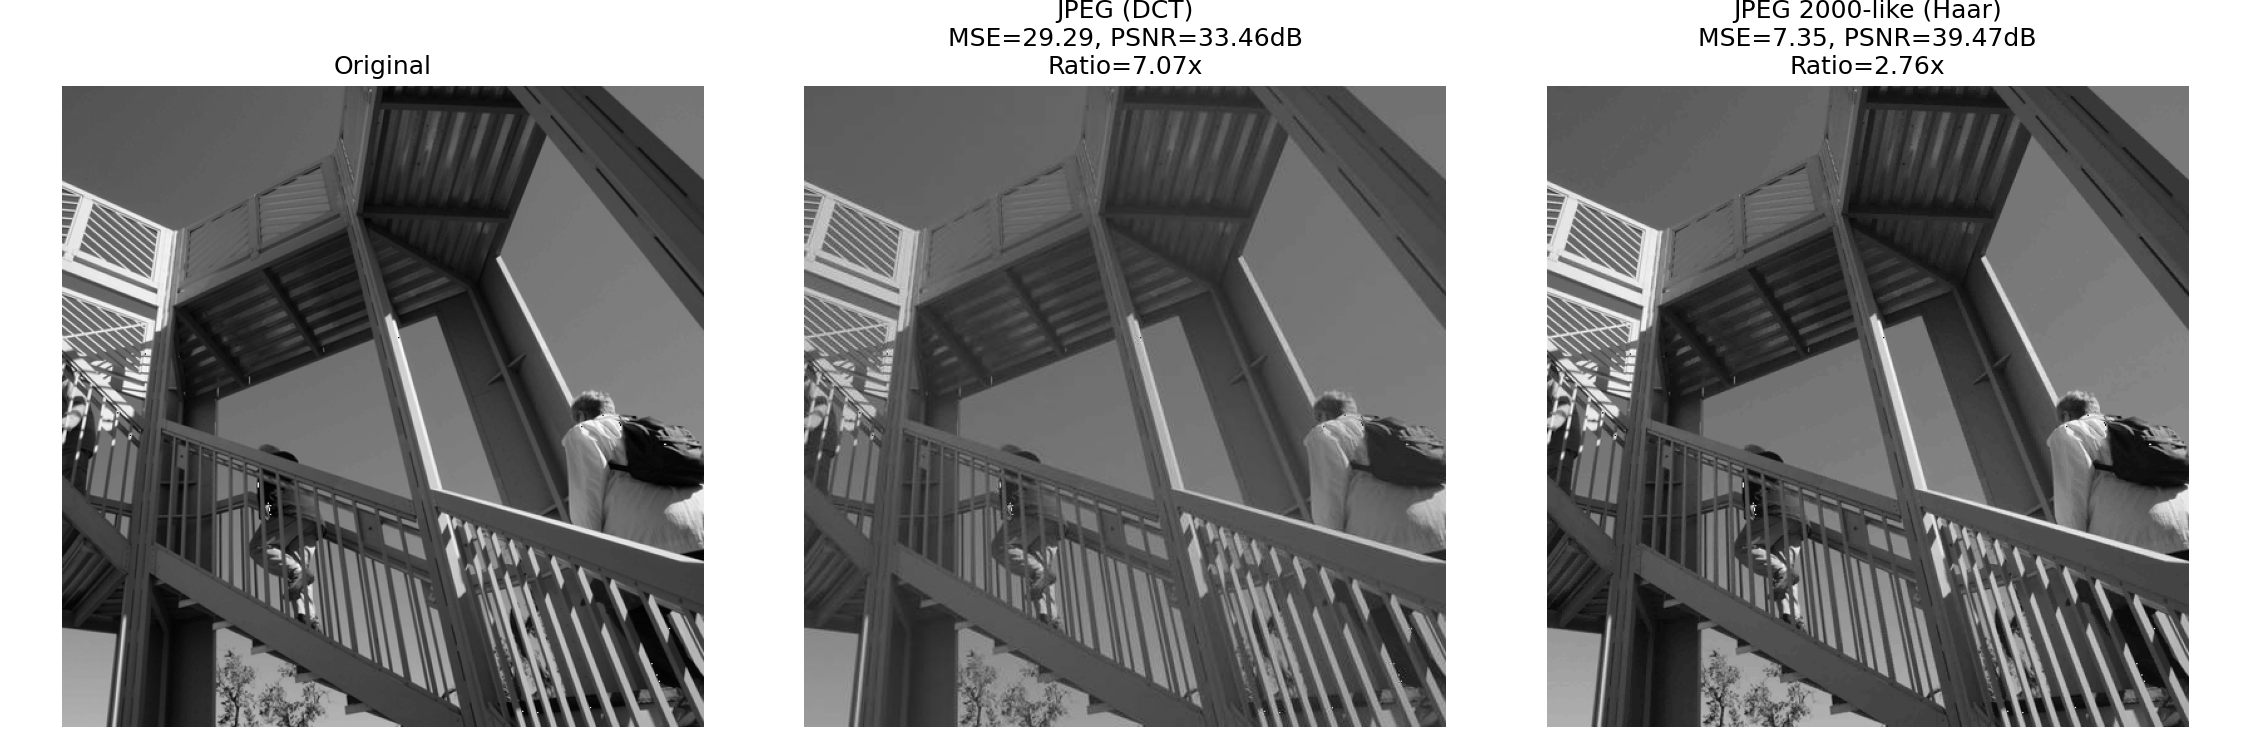
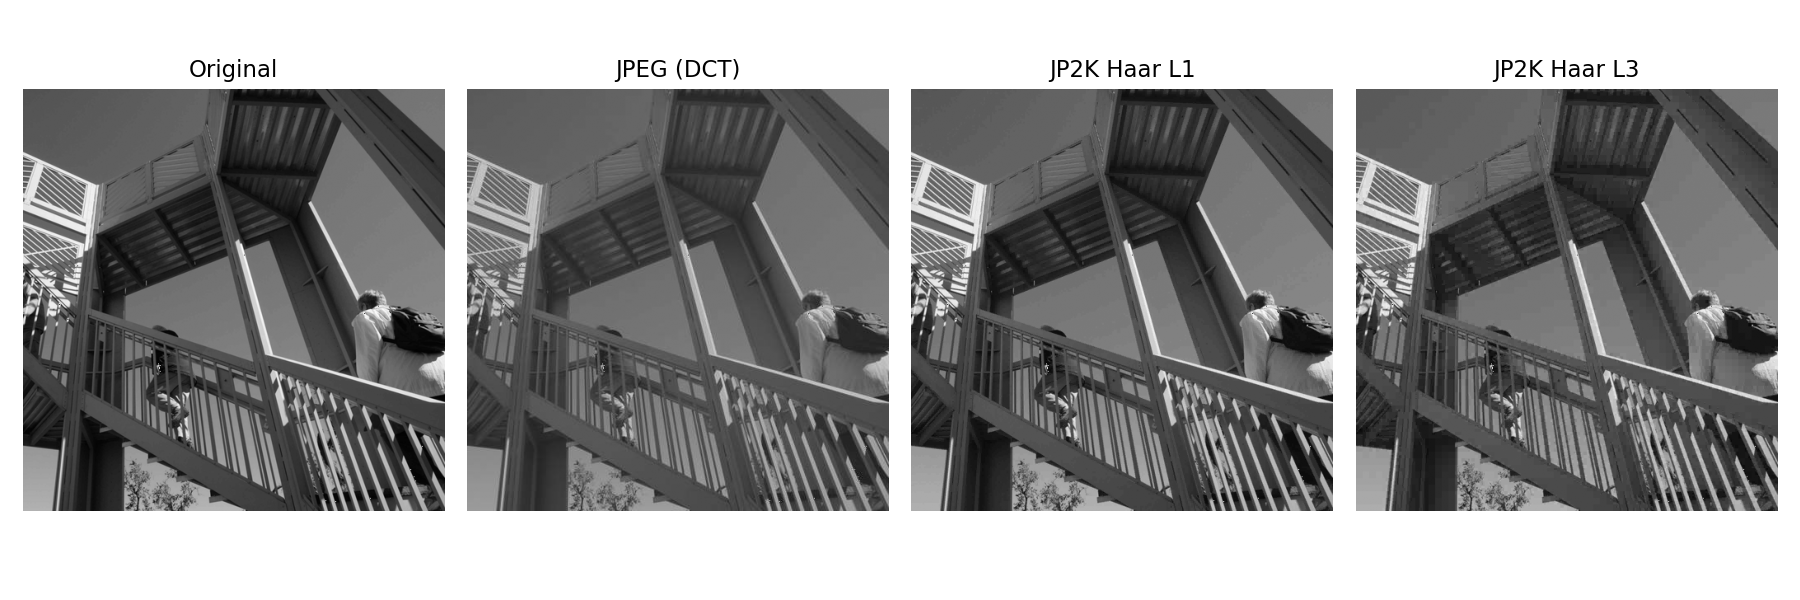
jpeg 2000 enhanced

diff --git a/tema_JPEG/JPEG_encoder/jpeg2000.py b/tema_JPEG/JPEG_encoder/jpeg2000.py
@@ -75,6 +75,56 @@ def inverse_haar_2d(LL, LH, HL, HH):
     return image
 
 
+def multilevel_haar_2d(image, levels=1):
+    """Recursive multi-level 2D Haar transform on the LL band.
+
+    Parameters
+    ----------
+    image : 2D array
+        Input grayscale image.
+    levels : int
+        Number of decomposition levels. For JPEG2000-style pyramids
+        a typical value is 3.
+
+    Returns
+    -------
+    LL : 2D array
+        Coarsest approximation after `levels` decompositions.
+    details : list of (LH, HL, HH)
+        Detail subbands for each level, from first (finest) to last
+        (coarsest) decomposition.
+    """
+
+    img = image.astype(np.float64)
+    LL = img
+    details = []
+
+    for _ in range(levels):
+        LL, LH, HL, HH = haar_2d(LL)
+        details.append((LH, HL, HH))
+
+    return LL, details
+
+
+def inverse_multilevel_haar_2d(LL, details):
+    """Inverse of multilevel_haar_2d.
+
+    Parameters
+    ----------
+    LL : 2D array
+        Coarsest LL band.
+    details : list of (LH, HL, HH)
+        Detail subbands for each level, in the same order as returned
+        by multilevel_haar_2d (from finest to coarsest).
+    """
+
+    current = LL
+    # Reconstruct from coarsest to finest
+    for LH, HL, HH in reversed(details):
+        current = inverse_haar_2d(current, LH, HL, HH)
+    return current
+
+
 def quantize_subbands(LL, LH, HL, HH, step_LL=4.0, step_H=8.0):
     """Uniform scalar quantization for each subband.
 
@@ -150,4 +200,71 @@ def jpeg2000_like_compress_grayscale(image, step_LL=4.0, step_H=8.0):
         "total_coeffs": total_coeffs,
         "step_LL": step_LL,
         "step_H": step_H,
+    }
+
+
+def jpeg2000_like_compress_grayscale_multilevel(image, step_LL=4.0, step_H=8.0, levels=3):
+    """JPEG 2000-like compression with a multi-level LL pyramid.
+
+    This uses multilevel_haar_2d to recursively decompose the LL band
+    `levels` times, mimicking the resolution pyramid of real JPEG 2000.
+    """
+
+    img = image.astype(np.float64)
+    h, w = img.shape
+
+    # Ensure dimensions are multiples of 2**levels
+    scale = 2 ** levels
+    h_pad = (scale - h % scale) % scale
+    w_pad = (scale - w % scale) % scale
+    if h_pad or w_pad:
+        img = np.pad(img, ((0, h_pad), (0, w_pad)), mode="edge")
+
+    # Forward multi-level transform
+    LL, details = multilevel_haar_2d(img, levels=levels)
+
+    # Quantize: LL with step_LL, all detail subbands with step_H
+    q_LL = np.round(LL / step_LL)
+    q_details = []
+    for LH, HL, HH in details:
+        q_LH = np.round(LH / step_H)
+        q_HL = np.round(HL / step_H)
+        q_HH = np.round(HH / step_H)
+        q_details.append((q_LH, q_HL, q_HH))
+
+    # Bit-cost proxy
+    nonzero_coeffs = np.count_nonzero(q_LL)
+    total_coeffs = q_LL.size
+    for q_LH, q_HL, q_HH in q_details:
+        nonzero_coeffs += (
+            np.count_nonzero(q_LH)
+            + np.count_nonzero(q_HL)
+            + np.count_nonzero(q_HH)
+        )
+        total_coeffs += q_LH.size + q_HL.size + q_HH.size
+
+    compression_ratio = total_coeffs / max(nonzero_coeffs, 1)
+
+    # Dequantize and inverse transform
+    LL_d = q_LL * step_LL
+    details_d = []
+    for q_LH, q_HL, q_HH in q_details:
+        LH_d = q_LH * step_H
+        HL_d = q_HL * step_H
+        HH_d = q_HH * step_H
+        details_d.append((LH_d, HL_d, HH_d))
+
+    recon = inverse_multilevel_haar_2d(LL_d, details_d)
+
+    # Remove padding
+    recon = recon[:h, :w]
+
+    mse = np.mean((image.astype(np.float64) - recon) ** 2)
+
+    return recon, mse, compression_ratio, {
+        "nonzero_coeffs": nonzero_coeffs,
+        "total_coeffs": total_coeffs,
+        "step_LL": step_LL,
+        "step_H": step_H,
+        "levels": levels,
     }

diff --git a/tema_JPEG/JPEG_encoder/main.py b/tema_JPEG/JPEG_encoder/main.py
@@ -22,7 +22,8 @@ from JPEG_encoder import (
     generate_synthetic_video, compress_video_mjpeg,
     jpeg_encode_block, build_huffman_tree, get_huffman_codes,
     compute_entropy, compute_average_code_length,
-    jpeg2000_like_compress_grayscale
+    jpeg2000_like_compress_grayscale,
+    jpeg2000_like_compress_grayscale_multilevel,
 )
 
 # Import test images
@@ -368,29 +369,34 @@ def bonus_jpeg2000_like():
     X_jpeg, ratio_jpeg = jpeg_compress_grayscale(X)
     mse_jpeg, psnr_jpeg = compute_metrics(X, X_jpeg)
 
-    # JPEG 2000-like: 1-level Haar wavelet + quantization
-    recon_wt, mse_wt, ratio_wt, stats = jpeg2000_like_compress_grayscale(
+    # JPEG 2000-like: 1-level vs multi-level Haar wavelet + quantization
+    recon_wt_1, mse_wt_1, ratio_wt_1, stats_1 = jpeg2000_like_compress_grayscale(
         X, step_LL=4.0, step_H=8.0
     )
-    psnr_wt = 10 * np.log10(255**2 / mse_wt) if mse_wt > 0 else float("inf")
+    psnr_wt_1 = 10 * np.log10(255**2 / mse_wt_1) if mse_wt_1 > 0 else float("inf")
 
-    fig, axes = plt.subplots(1, 3, figsize=(15, 5))
+    recon_wt_L, mse_wt_L, ratio_wt_L, stats_L = jpeg2000_like_compress_grayscale_multilevel(
+        X, step_LL=4.0, step_H=8.0, levels=3
+    )
+    psnr_wt_L = 10 * np.log10(255**2 / mse_wt_L) if mse_wt_L > 0 else float("inf")
+
+    fig, axes = plt.subplots(1, 4, figsize=(12, 4))
 
     axes[0].imshow(X, cmap="gray")
-    axes[0].set_title("Original")
+    axes[0].set_title("Original", fontsize=11)
     axes[0].axis("off")
 
     axes[1].imshow(X_jpeg, cmap="gray")
-    axes[1].set_title(
-        f"JPEG (DCT)\nMSE={mse_jpeg:.2f}, PSNR={psnr_jpeg:.2f}dB\nRatio={ratio_jpeg:.2f}x"
-    )
+    axes[1].set_title("JPEG (DCT)", fontsize=11)
     axes[1].axis("off")
 
-    axes[2].imshow(recon_wt, cmap="gray")
-    axes[2].set_title(
-        f"JPEG 2000-like (Haar)\nMSE={mse_wt:.2f}, PSNR={psnr_wt:.2f}dB\nRatio={ratio_wt:.2f}x"
-    )
+    axes[2].imshow(recon_wt_1, cmap="gray")
+    axes[2].set_title("JP2K Haar L1", fontsize=11)
     axes[2].axis("off")
+
+    axes[3].imshow(recon_wt_L, cmap="gray")
+    axes[3].set_title("JP2K Haar L3", fontsize=11)
+    axes[3].axis("off")
 
     plt.tight_layout()
     plt.savefig("output/bonus_jpeg2000_like.png", dpi=150)
@@ -401,15 +407,25 @@ def bonus_jpeg2000_like():
     print(f"    MSE: {mse_jpeg:.4f}")
     print(f"    PSNR: {psnr_jpeg:.2f} dB")
     print(f"    Compression ratio (non-zero coeffs): {ratio_jpeg:.2f}x")
-    print("  --- JPEG 2000-like (Haar) ---")
-    print(f"    MSE: {mse_wt:.4f}")
-    print(f"    PSNR: {psnr_wt:.2f} dB")
-    print(f"    Compression ratio (non-zero coeffs): {ratio_wt:.2f}x")
+    print("  --- JPEG 2000-like (Haar, 1 level) ---")
+    print(f"    MSE: {mse_wt_1:.4f}")
+    print(f"    PSNR: {psnr_wt_1:.2f} dB")
+    print(f"    Compression ratio (non-zero coeffs): {ratio_wt_1:.2f}x")
     print(
         "    Non-zero wavelet coeffs:",
-        stats.get("nonzero_coeffs"),
+        stats_1.get("nonzero_coeffs"),
         "/",
-        stats.get("total_coeffs"),
+        stats_1.get("total_coeffs"),
+    )
+    print("  --- JPEG 2000-like (Haar, 3 levels) ---")
+    print(f"    MSE: {mse_wt_L:.4f}")
+    print(f"    PSNR: {psnr_wt_L:.2f} dB")
+    print(f"    Compression ratio (non-zero coeffs): {ratio_wt_L:.2f}x")
+    print(
+        "    Non-zero wavelet coeffs:",
+        stats_L.get("nonzero_coeffs"),
+        "/",
+        stats_L.get("total_coeffs"),
     )
     print("  Saved: output/bonus_jpeg2000_like.png")
 

diff --git a/tema_JPEG/JPEG_encoder/__init__.py b/tema_JPEG/JPEG_encoder/__init__.py
@@ -35,7 +35,10 @@ from .huffman import (
     compute_average_code_length
 )
 
-from .jpeg2000 import jpeg2000_like_compress_grayscale
+from .jpeg2000 import (
+    jpeg2000_like_compress_grayscale,
+    jpeg2000_like_compress_grayscale_multilevel,
+)
 
 __all__ = [
     'Q_LUMINANCE',
@@ -57,5 +60,6 @@ __all__ = [
     'get_huffman_codes',
     'compute_entropy',
     'compute_average_code_length',
-    'jpeg2000_like_compress_grayscale'
+    'jpeg2000_like_compress_grayscale',
+    'jpeg2000_like_compress_grayscale_multilevel',
 ]
